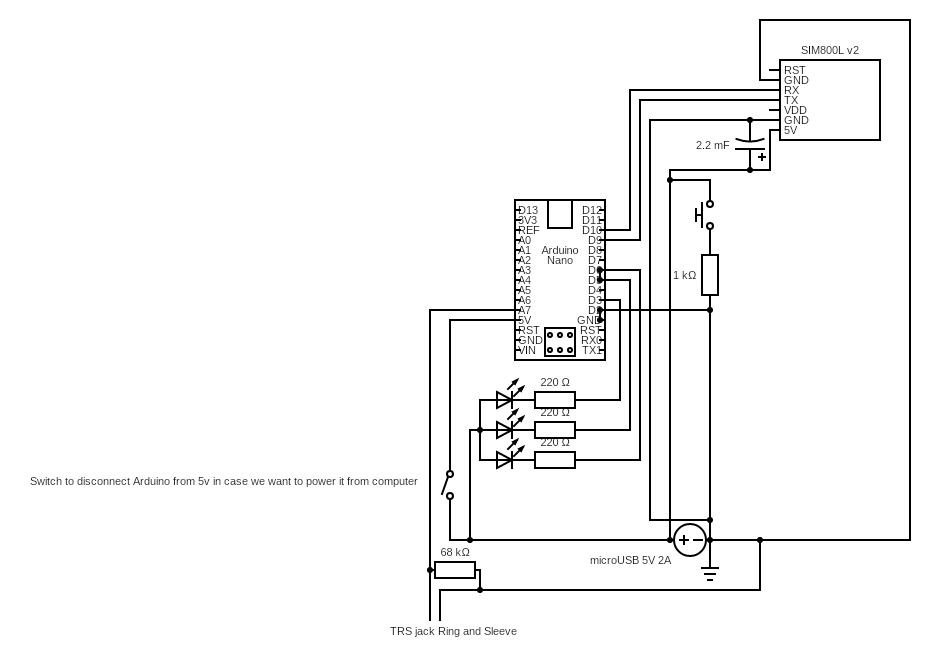
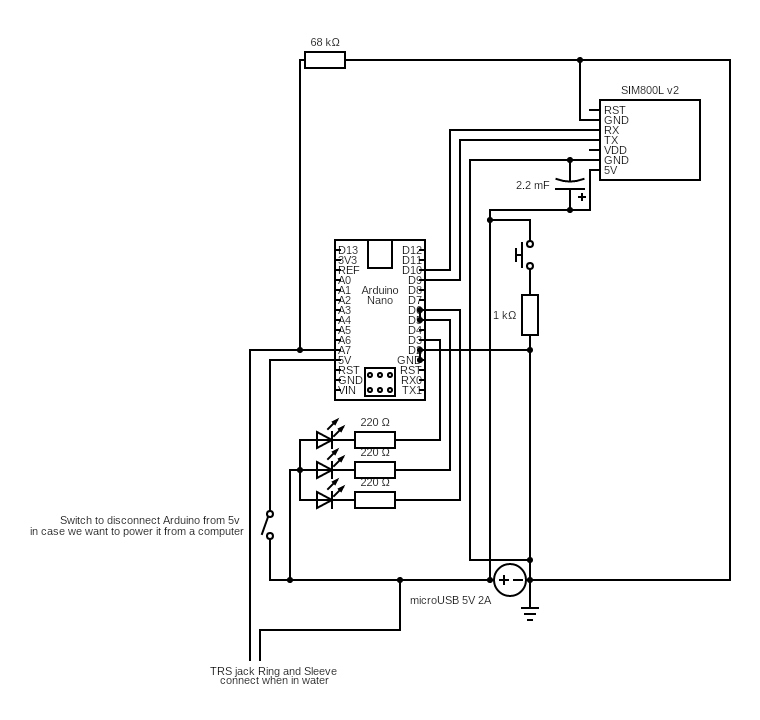
updated readme, circuit image

Changed region(s): [[0.0303, 0.0303, 0.9684, 0.9697], [0.3934, 0.0606, 0.4842, 0.1212]]

diff --git a/README.md b/README.md
@@ -10,3 +10,5 @@ Some friends have a large pinball collection in a flood prone location. They wer
 ![](docs/circuit.png)
 
 **The current status** of this project is that I have not managed to get the SIM800L to work reliably. I read it can pull up to 2A of current when it is talking to the network, and I suspect this is the reason it sometimes fails to operate. Investigations will continue next fall when the rain season is approaching.
+
+Otherwise it seemed to work as intended. The water detection "sensor" is actually a normal stereo audio cable. When the jack is submerged in conductive material a connection happens between the ring and sleeve and we get a reading.
